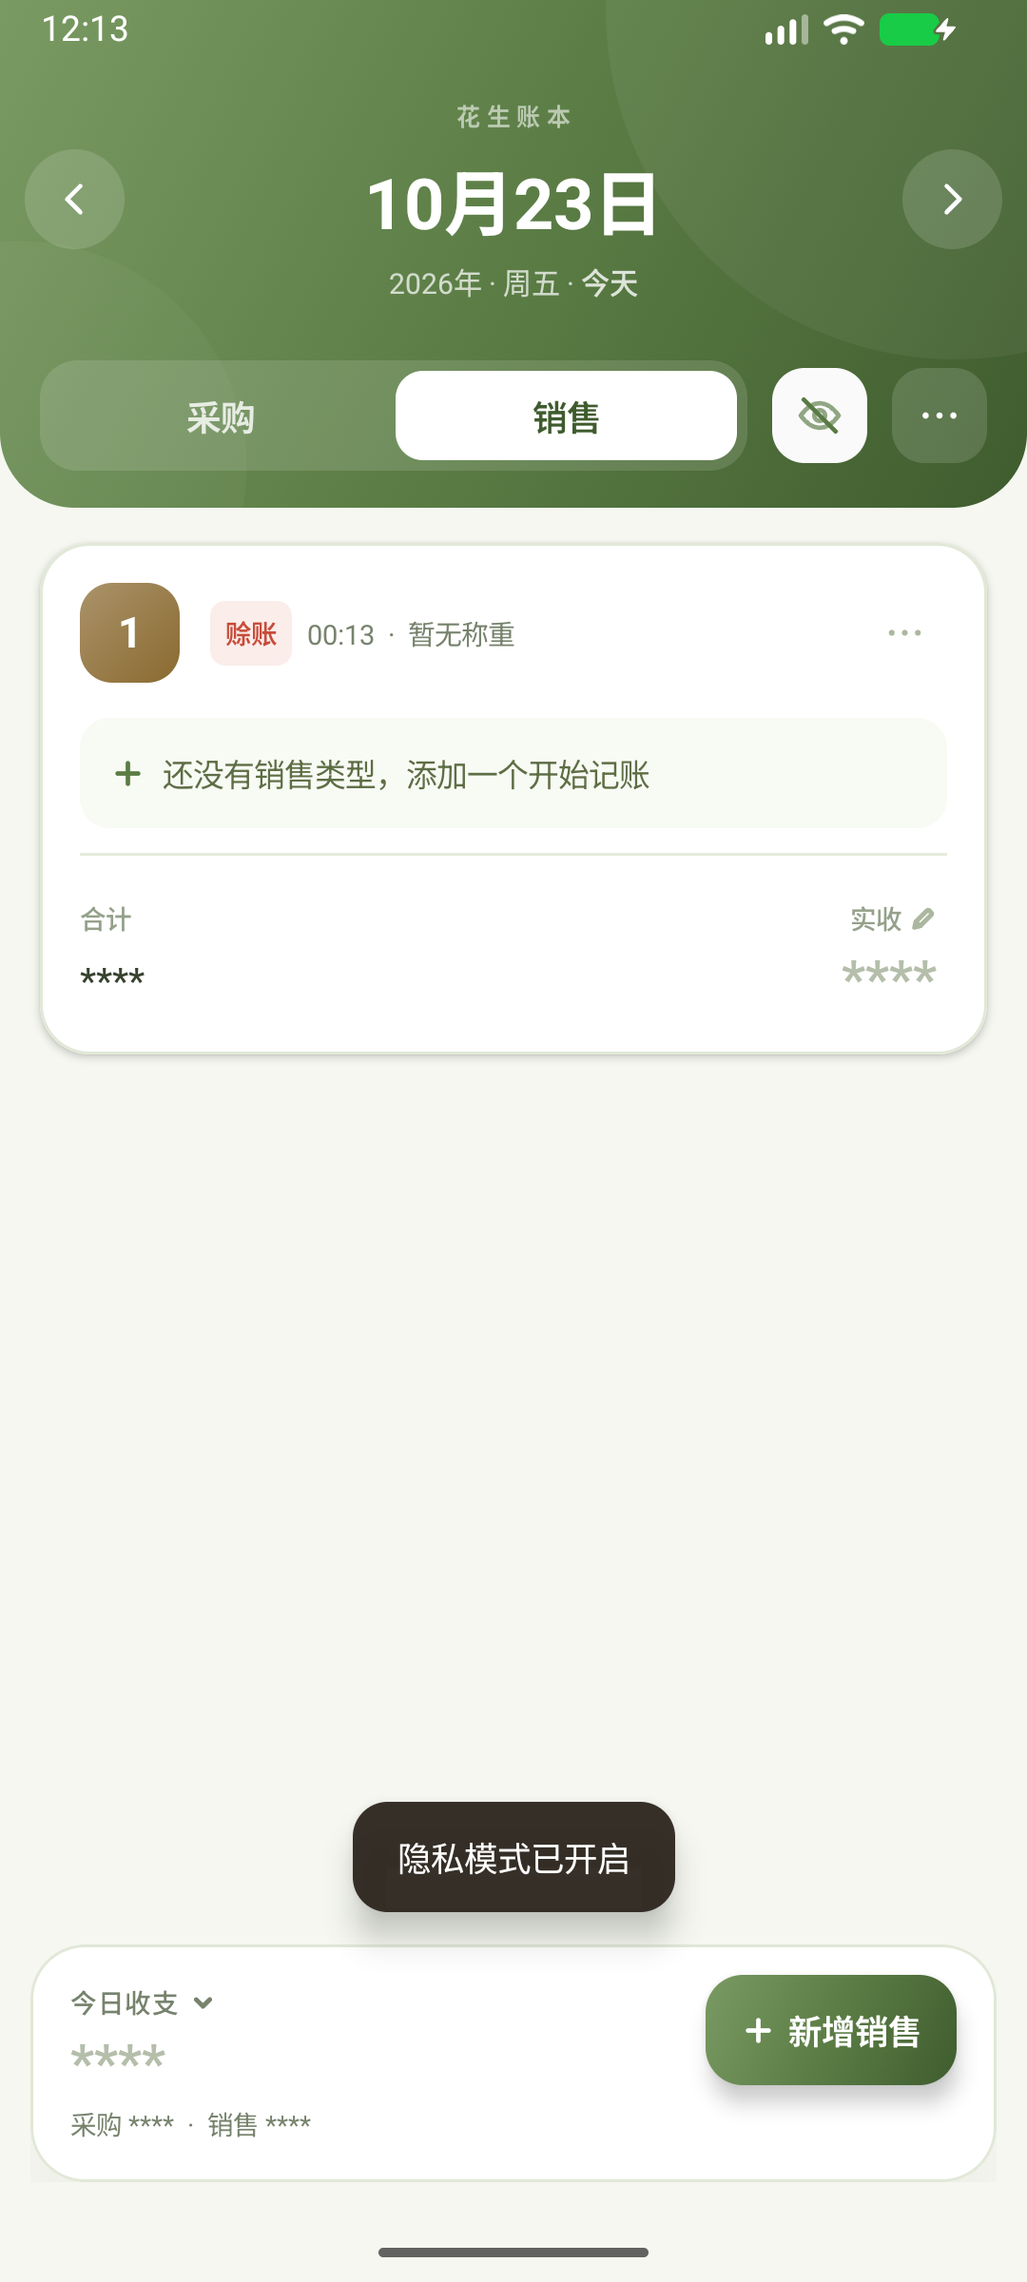
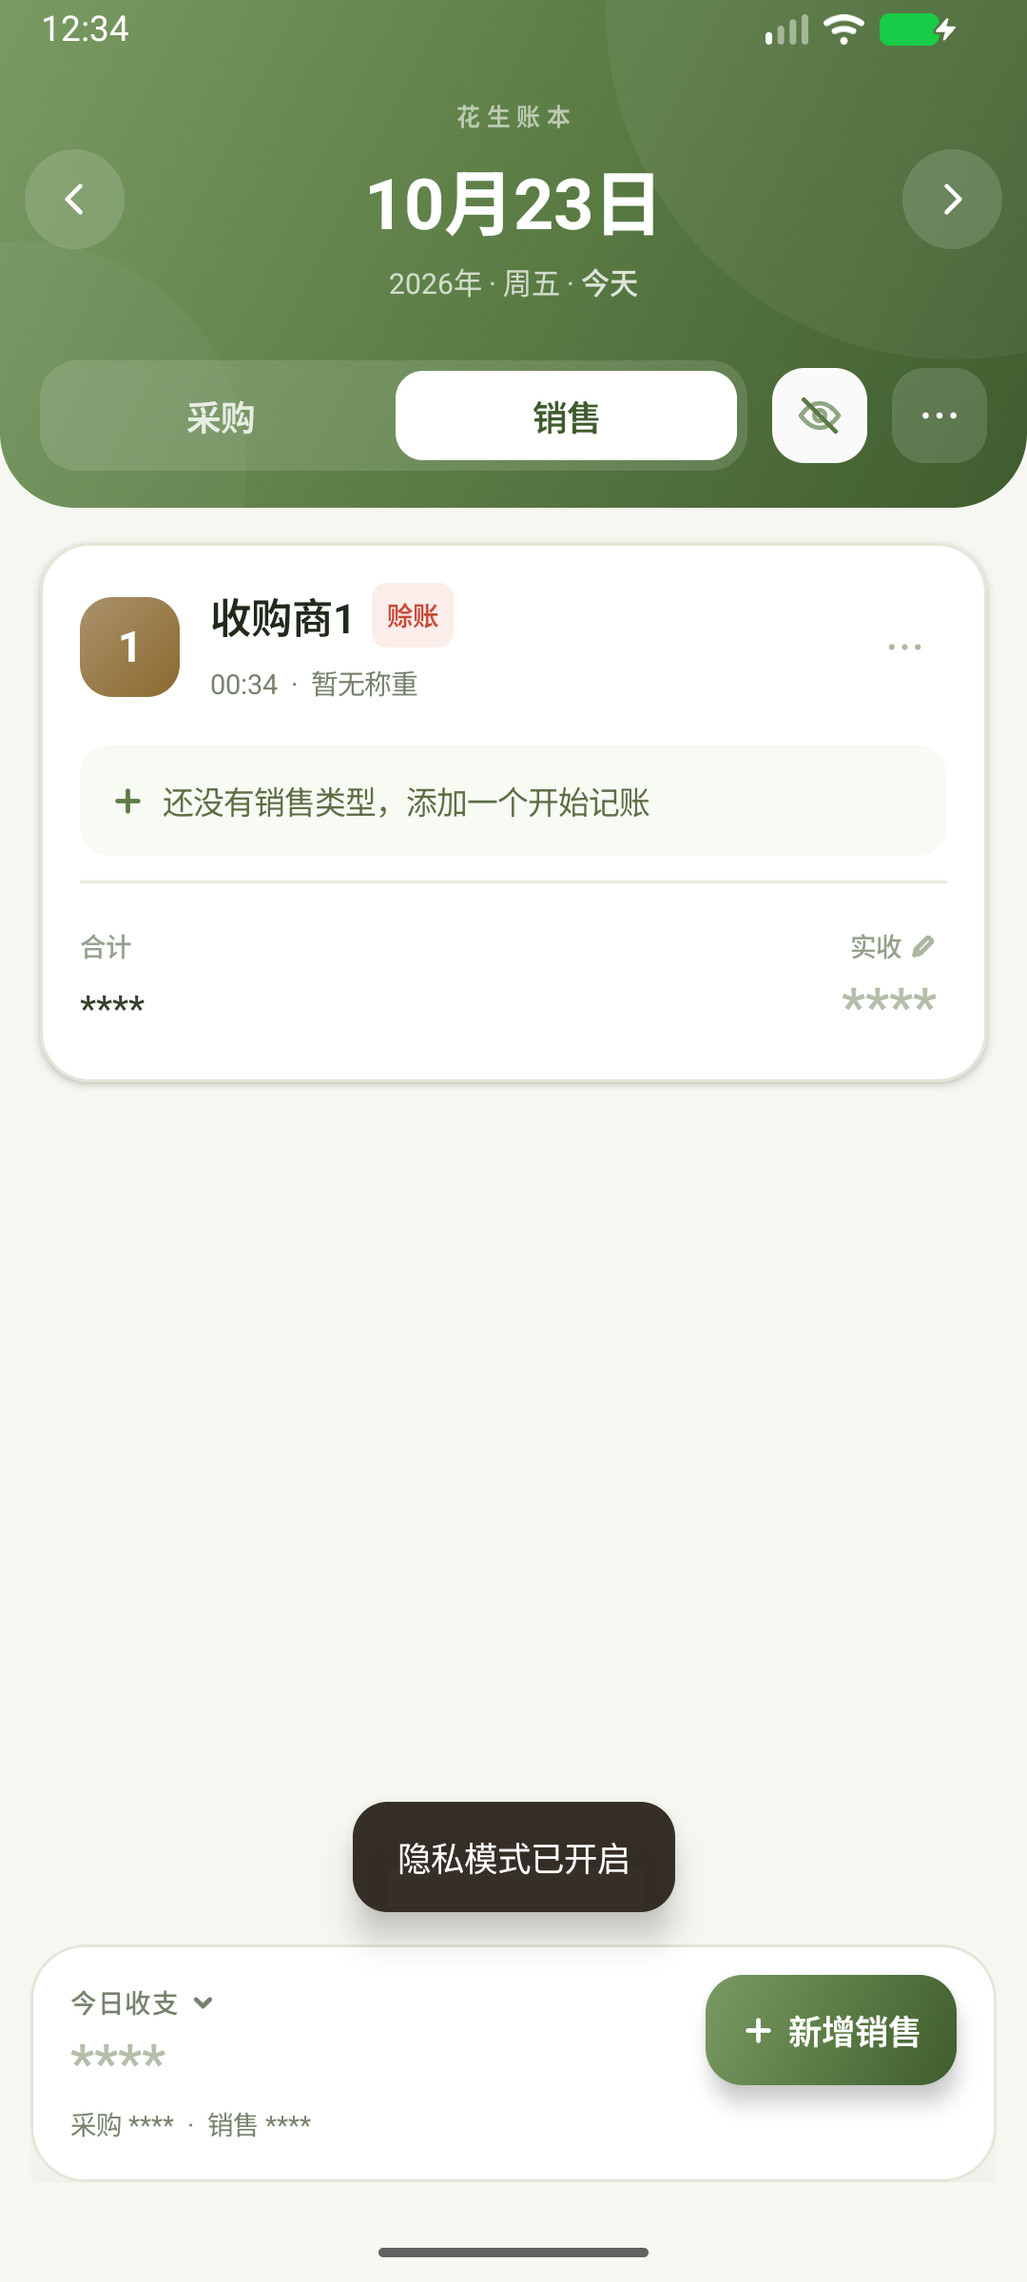
fix: restore supplier and buyer sequence naming

diff --git a/app/src/main/java/com/peanut/ledger/ui/LedgerState.kt b/app/src/main/java/com/peanut/ledger/ui/LedgerState.kt
@@ -22,6 +22,7 @@ import com.peanut.ledger.data.LedgerTab
 import com.peanut.ledger.data.LedgerType
 import com.peanut.ledger.data.NamedOption
 import com.peanut.ledger.data.newId
+import com.peanut.ledger.data.nextSupplierName
 import com.peanut.ledger.data.nextSupplierNumber
 import com.peanut.ledger.data.round2
 import com.peanut.ledger.ui.theme.AppTheme
@@ -172,7 +173,7 @@ class LedgerState(private val context: Context) {
         if (targetTab == LedgerTab.SELL && privacyMode) {
             val number = displayIndex
                 ?: (currentDay.sells.indexOfFirst { it.id == entry.id } + 1).takeIf { it > 0 }
-            return if (number != null) "收$number" else "收购商"
+            return if (number != null) "收购商$number" else "收购商"
         }
         return entry.title(targetTab)
     }
@@ -603,6 +604,8 @@ class LedgerState(private val context: Context) {
         return DayStats(round2(buy), round2(sell))
     }
 
+    fun nextSupplierName(): String = nextSupplierName(currentDay.buys)
+
     fun addEntry(
         name: String,
         buyer: String,
@@ -610,9 +613,7 @@ class LedgerState(private val context: Context) {
     ) {
         var openTypeFor: String? = null
         if (tab == LedgerTab.BUY) {
-            val finalName = name.trim().ifBlank {
-                nextSupplierNumber(currentDay.buys).toString()
-            }
+            val finalName = name.trim().ifBlank { nextSupplierName() }
             val entry = LedgerEntry(
                 id = newId(),
                 name = finalName,
@@ -621,13 +622,7 @@ class LedgerState(private val context: Context) {
             )
             updateDay { it.copy(buys = it.buys + entry) }
             openTypeFor = entry.id
-            showToast(
-                if (finalName.toIntOrNull() != null) {
-                    "已添加序号 $finalName，请选择采购类型"
-                } else {
-                    "已添加 $finalName，请选择采购类型"
-                }
-            )
+            showToast("已添加 $finalName，请选择采购类型")
         } else {
             val finalBuyer = buyer.trim()
             val validBuyer = data.settings.buyers.any { it.active && it.name == finalBuyer }
@@ -665,6 +660,30 @@ class LedgerState(private val context: Context) {
         updateEntry(entryId) { entry -> entry.copy(name = clean) }
         sheet = null
         showToast("已修改")
+    }
+
+    private fun normalizeSupplierNames() {
+        var changed = false
+        val days = data.days.mapValues { (_, day) ->
+            val buys = day.buys.map { entry ->
+                val clean = entry.name.trim()
+                val number = when {
+                    clean.startsWith("户") -> clean.removePrefix("户").toIntOrNull()
+                    else -> clean.toIntOrNull()
+                }
+                if (number != null && clean != "供货商$number") {
+                    changed = true
+                    entry.copy(name = "供货商$number")
+                } else {
+                    entry
+                }
+            }
+            if (buys != day.buys) day.copy(buys = buys) else day
+        }
+        if (changed) {
+            data = data.copy(days = days)
+            persist()
+        }
     }
 
     private fun ensureSaleBuyersBound() {

diff --git a/app/src/main/java/com/peanut/ledger/ui/MainScreen.kt b/app/src/main/java/com/peanut/ledger/ui/MainScreen.kt
@@ -476,12 +476,14 @@ private fun EntryCard(
     ) {
         Column(Modifier.padding(16.dp)) {
             Row(verticalAlignment = Alignment.CenterVertically) {
-                val privacySell = !isBuy && state.privacyMode
-                val autoNamedBuy = isBuy && entry.name.trim().toIntOrNull() != null
-                val showTitle = !privacySell && !autoNamedBuy
+                val supplierNumber = if (isBuy) {
+                    entry.name.trim().removePrefix("供货商").removePrefix("户").toIntOrNull()
+                } else {
+                    null
+                }
                 val avatarLabel = when {
-                    privacySell -> privacyIndex.toString()
-                    autoNamedBuy -> entry.name.trim()
+                    !isBuy && state.privacyMode -> privacyIndex.toString()
+                    supplierNumber != null -> supplierNumber.toString()
                     title.startsWith("户") && title.length > 1 -> title.removePrefix("户").take(2)
                     else -> title.take(1).ifBlank { "?" }
                 }
@@ -499,29 +501,23 @@ private fun EntryCard(
                 EntryAvatar(avatarLabel, isBuy)
                 Spacer(Modifier.width(12.dp))
                 Column(Modifier.weight(1f)) {
-                    if (showTitle) {
-                        Row(verticalAlignment = Alignment.CenterVertically) {
-                            Text(
-                                text = title,
-                                color = TextMain,
-                                fontSize = 16.5.sp,
-                                fontWeight = FontWeight.SemiBold,
-                                maxLines = 1,
-                                overflow = TextOverflow.Ellipsis,
-                                modifier = Modifier.weight(1f, fill = false)
-                            )
-                            if (!isBuy) {
-                                Spacer(Modifier.width(6.dp))
-                                SettleTag(entry.settled)
-                            }
-                        }
-                        Spacer(Modifier.height(3.dp))
-                    }
                     Row(verticalAlignment = Alignment.CenterVertically) {
-                        if (!showTitle && !isBuy) {
-                            SettleTag(entry.settled)
+                        Text(
+                            text = title,
+                            color = TextMain,
+                            fontSize = 16.5.sp,
+                            fontWeight = FontWeight.SemiBold,
+                            maxLines = 1,
+                            overflow = TextOverflow.Ellipsis,
+                            modifier = Modifier.weight(1f, fill = false)
+                        )
+                        if (!isBuy) {
                             Spacer(Modifier.width(6.dp))
+                            SettleTag(entry.settled)
                         }
+                    }
+                    Spacer(Modifier.height(3.dp))
+                    Row(verticalAlignment = Alignment.CenterVertically) {
                         Text(
                             text = metaText,
                             color = Muted,

diff --git a/app/src/main/java/com/peanut/ledger/ui/Sheets.kt b/app/src/main/java/com/peanut/ledger/ui/Sheets.kt
@@ -252,7 +252,7 @@ private enum class LocationStatus { DISABLED, REQUESTING, LOCATING, FOUND, DENIE
 
 @Composable
 private fun AddFarmerSheet(state: LedgerState) {
-    var name by remember { mutableStateOf("") }
+    var name by remember { mutableStateOf(state.nextSupplierName()) }
     val focusRequester = remember { FocusRequester() }
     val context = LocalContext.current
     val scope = rememberCoroutineScope()
@@ -346,14 +346,7 @@ private fun AddFarmerSheet(state: LedgerState) {
             value = name,
             onValueChange = { name = it },
             modifier = Modifier.fillMaxWidth().focusRequester(focusRequester),
-            placeholder = "可选，留空自动使用序号"
-        )
-        Spacer(Modifier.height(5.dp))
-        Text(
-            text = "留空保存时，将按当天采购顺序显示为 1、2、3…",
-            color = Muted,
-            fontSize = 10.sp,
-            lineHeight = 15.sp
+            placeholder = "输入供货商名称"
         )
         Spacer(Modifier.height(12.dp))
         Row(

diff --git a/app/src/main/java/com/peanut/ledger/data/Models.kt b/app/src/main/java/com/peanut/ledger/data/Models.kt
@@ -139,9 +139,12 @@ fun entryFinal(entry: LedgerEntry): Double {
 
 fun entryHasUnsettled(entry: LedgerEntry): Boolean = !entry.settled
 
+fun nextSupplierName(entries: List<LedgerEntry>): String =
+    "供货商${nextSupplierNumber(entries)}"
+
 fun nextSupplierNumber(entries: List<LedgerEntry>): Int {
     val used = entries.mapNotNull { entry ->
-        entry.name.trim().removePrefix("户").toIntOrNull()
+        entry.name.trim().removePrefix("供货商").removePrefix("户").toIntOrNull()
     }.toSet()
     var index = 1
     while (used.contains(index)) index++

diff --git a/app/src/main/java/com/peanut/ledger/ui/SettingsScreen.kt b/app/src/main/java/com/peanut/ledger/ui/SettingsScreen.kt
@@ -101,7 +101,7 @@ fun SettingsScreen(state: LedgerState) {
                     )
                     Spacer(Modifier.height(7.dp))
                     Text(
-                        text = "数据仅保存在本机 · 花生账本 v0.1.8",
+                        text = "数据仅保存在本机 · 花生账本 v0.1.9",
                         color = Placeholder,
                         fontSize = 11.sp,
                         textAlign = TextAlign.Center

diff --git a/README.md b/README.md
@@ -6,7 +6,7 @@
 
 - **采购 / 销售双账本**：按日期分别记录供货商采购和收购商销售。右滑顺序为「今日采购 → 昨日销售 → 昨日采购 → 前日销售」，左滑顺序为「今日采购 → 今日销售 → 明日采购 → 明日销售」，切换时带方向一致的滑动过渡动画。
 - **日期与日历**：前一天 / 后一天、回到今天；日历支持日 / 月 / 年三级缩放，展示每日盈亏、月度与年度收支汇总，并用红点标记存在赊账的日期。日历内可左右滑动切换下一月 / 上一月，并带过渡动画。
-- **供货商 / 收购商**：新增采购时供货商名称默认留空；直接保存会按当天采购顺序显示为 1、2、3…，姓氏框显示序号且右侧不重复显示名称。也可以在输入框中填写真实名称。销售必须从设置中的收购商列表选择，不能在销售页现场新增或改名。可在设置中开启或关闭位置记录；开启后新增采购会读取当前位置并标记在条目上（首次使用需授权定位，拒绝授权不影响记账）。
+- **供货商 / 收购商**：新增采购默认按当天顺序生成供货商1、供货商2…，输入框可直接修改为真实名称，卡片姓氏框显示序号并保留右侧名称。销售必须从设置中的收购商列表选择，不能在销售页现场新增或改名。可在设置中开启或关闭位置记录；开启后新增采购会读取当前位置并标记在条目上（首次使用需授权定位，拒绝授权不影响记账）。
 - **采购 / 销售类型与称重**：打开新增称重时自动聚焦重量并弹出数字键盘；金额默认由重量 × 单价自动计算，也可手动修改，修改后显示「已修改」及少付/多付差额；手动价格会在条目尾部以原价划线展示，合计同样划线；手动改回原价会自动恢复「自动计算」；再次调整重量或单价也会重新计算；新增称重会自动带入上次单价；重量为 0 时点击保存会直接返回，不产生记录也不弹出错误提示。如果类型下没有任何称重，会自动移除该类型。
 - **实付 / 实收调整**：支持按整元向上取整（按钮直接显示「取整到具体金额」）和恢复原价，实时显示多付/少付、多收/少收。
 - **销售结算状态**：赊账 / 已结清切换；可在设置中配置新增销售默认赊账或默认结清。
@@ -14,7 +14,7 @@
 - **版本化备份与恢复**：设置 → 备份与恢复中可创建手动备份，也会按设置的频率自动备份。默认每天一次、保留 30 天；频率可选关闭 / 每天 / 每周 / 每月 / 自定义天数，保留时长可选 7 / 30 / 365 天 / 自定义天数。自动备份在 APP 进入后台时创建（每个周期最多一次），避免编辑中途写入；跨天仍在使用时也会检查补备。备份记录支持分页（每页 5 条）、单条删除、清空全部、导出为文件，以及上传其他设备或云端下载的备份文件进行恢复。备份文件带 APP 版本、versionCode、数据结构版本和格式版本标识：低版本 APP 会阻断高版本备份并同时显示两个版本号；高版本 APP 可读取低版本备份，自动使用兼容层补齐缺失字段。手动恢复前会明确提示当前全部记账、类型、收购商和设置将被覆盖，并先自动创建一份恢复前安全备份。
 - **统计分析**：右上角「更多 → 统计」进入统计页。顶部可选择近 7 天、近 30 天、近 1 年或自定义起止日期，默认近 7 天，选择后概览、赊账、排行和所有图表同步生效。包含概览、赊账统计（当前周期未结清总额、欠款排行及每位收购商最长账龄）、收支趋势（采购支出 / 销售收入 / 净收支三条线）、采购销售斤数、采购销售均价，以及商品收购商往来排行。斤数与均价图各自带独立类型筛选（默认全部类型）；所有折线图支持长按显示详情，并在按住后左右移动自动切换日期，颜色采用高对比蓝 / 橙 / 紫。统计卡片内不重复展示周期，统一以顶部周期为准；隐私模式开启时会先提示关闭隐私模式。
 - **备注与重命名**：每日备注、单条记录备注使用大文本输入框；支持记录重命名和删除确认。
-- **隐私模式**：一键隐藏全部金额，销售界面的姓氏框显示「1、2…」序号且右侧不显示收购商名称，同时隐藏多付/少付标签和采购条目的位置信息；点击新增称重或添加类型时会自动临时显示该条目并继续操作，无需先双击；其余敏感操作仍可双击或长按卡片临时显示。
+- **隐私模式**：一键隐藏全部金额，销售隐私模式下姓氏框显示序号，右侧标题显示「收购商1、收购商2…」，同时隐藏多付/少付标签和采购条目的位置信息；点击新增称重或添加类型时会自动临时显示该条目并继续操作，无需先双击；其余敏感操作仍可双击或长按卡片临时显示。
 - **设置**：采购类型、销售类型和收购商支持长按拖动柄排序；支持重命名并同步更新所有历史记录；已绑定记录的类型/收购商不可删除，可设为失效，失效项不会出现在记账选择中。
 - **显示设置**：字体大小支持标准 / 大 / 特大；内置松绿、暖棕、黛蓝、绛紫、青黛、墨灰、海盐、樱粉、琥珀九套主题，松绿排在首位且为默认主题，修改立即生效并持久保存。
 - **新增采购联动**：新增采购后自动弹出采购类型选择，并默认选中上次使用的类型；点击「下一步」即可开始称重。
@@ -39,10 +39,10 @@
 
 - 左右滑动：右滑为「今日采购 → 昨日销售 → 昨日采购 → 前日销售」；左滑为「今日采购 → 今日销售 → 明日采购 → 明日销售」，切换时带方向一致的滑动过渡动画。
 - 日历滑动：日历内左滑查看下一月 / 下一年 / 下一个 12 年，右滑返回上一周期，带过渡动画。
+- 新增采购：名称默认按顺序生成「供货商1、供货商2…」，可直接在输入框改成真实名称；旧版本自动名称会同步迁移。
 - 新增销售：必须从设置中的收购商列表选择，不能现场新增或修改收购商名称；收购商改名请在设置中进行，历史记录会同步更新。
 - 新增称重：重量输入框已自动聚焦，直接输入数字即可；金额默认自动计算，也可直接修改，修改后显示「已修改」和少付/多付；手动价格会显示原价划线，改回原价后自动恢复；重量为 0 时保存会直接返回。
-- 新增采购：开启位置记录时，打开会自动读取当前位置，保存后会随条目展示位置标记；关闭后不再请求定位。随后自动进入采购类型选择，默认选中上次使用的类型，可点「下一步」继续。
-- 隐私模式：销售列表的姓氏框显示序号，右侧不显示收购商名称，不显示多付/少付标签，也不显示采购位置；点击新增称重/添加类型会自动显示并继续。
+- 隐私模式：销售列表的姓氏框显示序号，右侧标题显示「收购商1、收购商2…」，不显示多付/少付标签，也不显示采购位置；点击新增称重/添加类型会自动显示并继续。
 - 设置排序：长按每行右侧的拖动柄上下移动即可排序，记账时的类型/收购商顺序会同步变化。
 - 字体与主题：在「设置 → 显示与主题」中调整；九套主题以三列网格展示，松绿第一，立即生效。
 - 位置记录：在「设置 → 位置记录」中开关；关闭后新增采购不请求定位。
@@ -112,7 +112,7 @@ app/build/outputs/apk/debug/app-debug.apk
 | --- | --- |
 | <img src="docs/screenshots/weighing.png" width="260" /> | <img src="docs/screenshots/manual-price.png" width="260" /> |
 
-| 隐私模式（序号 / 隐藏名称） | 新增采购（空白名称按序号） |
+| 隐私模式（收购商序号） | 新增采购（记录当前位置） |
 | --- | --- |
 | <img src="docs/screenshots/privacy.png" width="260" /> | <img src="docs/screenshots/location.png" width="260" /> |
 

diff --git a/VERSION.md b/VERSION.md
@@ -1,9 +1,9 @@
 # 版本号约定
 
-- 当前版本：**0.1.8**
-- 版本号从 `0.1.0` 开始记录；当前为 `0.1.8`。
+- 当前版本：**0.1.9**
+- 版本号从 `0.1.0` 开始记录；当前为 `0.1.9`。
 - 未经用户明确要求，不修改前两位（major / minor），只允许修改最后一位 patch。
 - 发布时最后一位递增，例如：`0.1.0` → `0.1.1` → `0.1.2`。
 - Android `versionCode` 与语义版本分开维护，每次发布递增，仅用于安装升级。
 - 旧版本标签 `v1.1.0`–`v1.4.0` 为历史记录，新规则从 `0.1.0` 开始；旧标签保留，不删除。
-- 历史：`0.1.0` → `0.1.1`（手动价格划线、位置开关样式、底部斤数）→ `0.1.2`（统计页）→ `0.1.3`（区间统计、图内筛选与长按详情）→ `0.1.4`（区间日期样式、图内拖动详情、展开式日结卡）→ `0.1.5`（日结卡单击交互、金额单位与阴影细节）→ `0.1.6`（版本化备份与恢复）→ `0.1.7`（备份分页、删除、自定义周期与导入导出）→ `0.1.8`（供货商/收购商文案与归属调整）。
+- 历史：`0.1.0` → `0.1.1`（手动价格划线、位置开关样式、底部斤数）→ `0.1.2`（统计页）→ `0.1.3`（区间统计、图内筛选与长按详情）→ `0.1.4`（区间日期样式、图内拖动详情、展开式日结卡）→ `0.1.5`（日结卡单击交互、金额单位与阴影细节）→ `0.1.6`（版本化备份与恢复）→ `0.1.7`（备份分页、删除、自定义周期与导入导出）→ `0.1.8`（供货商/收购商文案与归属调整）→ `0.1.9`（恢复供货商/收购商默认名称并调整隐私标题）。
